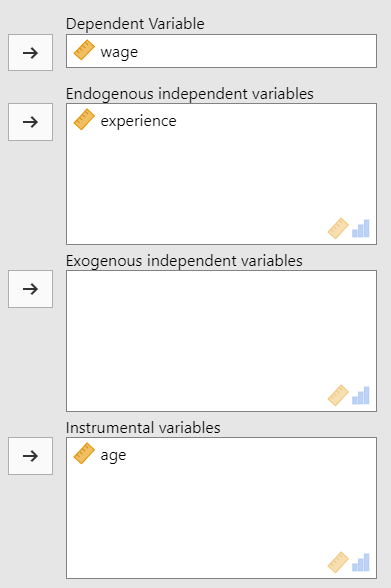
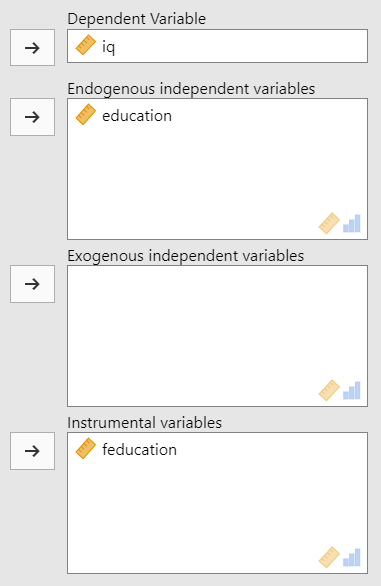
Help page

diff --git a/docs/example1.html b/docs/example1.html
@@ -411,30 +411,33 @@ href="https://cran.r-project.org/web/packages/ivreg/vignettes/ivreg.html"
 class="uri">https://cran.r-project.org/web/packages/ivreg/vignettes/ivreg.html</a>).
 The dataset is taken from the supplementary material for Verbeek (2004)
 and is based on the work of Card (1995).</p>
-<p>We aimed to investigate the impact of labor-market experience on
-earnings by implementing an IV regression via 2SLS estimation. The
-labor-market experience (<em>experience</em>) was defined as a predictor
-variable. The salary (<em>wage</em>) was defined as a criterion
-variable. Within a standard OLS regression, this estimate may be
-problematic, since it can be argued that <em>experience</em> may suffer
+<p>We aimed to investigate the impact of scholing (<em>education</em>)
+on intelligent quotient (<em>IQ</em>) by implementing an IV regression
+via 2SLS estimation. Schooling (<em>education</em>) was defined as a
+predictor variable. The intelligent quotient (<em>IQ</em>) was defined
+as a criterion variable. Within a standard OLS regression, this estimate
+may be problematic, since it can be argued that <em>IQ</em> may suffer
 from endogeneity issues (i.e., it may be correlated with the regression
-error term). By employing a 2SLS estimation, we defined <em>age</em> as
-the natural exogenous instrument for <em>experience</em>. To fit this
-model, we can simply follow the indications represented below:</p>
+error term). By employing a 2SLS estimation, we defined father’s
+education <em>feducation</em> as the natural exogenous instrument for
+<em>education</em>. To fit this model, we can simply follow the
+indications represented below:</p>
 <p><img src=" pics/example2/definition.png " class="img-responsive" alt=""></p>
 <p>The first table of interest is the “<em>Model diagnostics</em>” table
 which summarizes the diagnostic tests for endogeneity.</p>
 <p>The <em>Weak instruments test</em> examines the null hypothesis that
-the instrumental variable (i.e., <em>age</em>) is weakly correlated with
-the endogenous variable (i.e., <em>experience</em>). A significant
-p-value, as in this example, sustains the alternative hypothesis that
-the instrument is strong (see Stock &amp; Watson, 2015), also ensuring
-the satisfaction of the instrument relevance condition.</p>
+the instrumental variable (i.e., <em>feducation</em>) is weakly
+correlated with the endogenous variable (i.e., <em>education</em>). A
+significant p-value, as in this example, sustains the alternative
+hypothesis that the instrument is strong (see Stock &amp; Watson, 2015),
+also ensuring the satisfaction of the instrument relevance
+condition.</p>
 <p><em>Wu-Hausman’s specification test</em> examines the null hypothesis
-that <em>experience</em> satisfies the exogeneity assumption. A
-significant p-value, as in the example, provided evidence that
-<em>experience</em> suffers from endogeneity and, therefore, that the
-2SLS approach is recommended over the standard OLS regression.</p>
+that <em>education</em> satisfies the exogeneity assumption. A
+significant p-value, as in the example, sustains the alternative
+hypothesis that <em>education</em> suffers from endogeneity and,
+therefore, that the 2SLS approach is recommended over the standard OLS
+regression.</p>
 <p>With respect to <em>Sargan’s test</em>, note that since the model is
 just-identified the statistic cannot be computed. For a just-identified
 model, it is non-viable to formally test whether the instrumental
@@ -442,13 +445,14 @@ variables are exogenous (see Stock &amp; Watson, 2015).</p>
 <p><img src=" pics/example2/diagnostic2.png " class="img-responsive" alt=""></p>
 <p>Let’s take a look at the <em>“Parameter Estimates”</em> table. We
 show that the unstandardized regression coefficient linking
-<em>education</em> to <em>wage</em> was 24.734, p&lt;.001, whilst the
-standardized regression coefficient was 0.389, p&lt;.001. It basically
-means that for each additional year of <em>labor-market experience</em>,
-<em>wage</em> is expected to increase by 24.734. With respect to the
-standardized coefficient, a change of 1 standard deviation in
-<em>experience</em> is associated with a change of 0.389 standard
-deviations in <em>wage</em>.</p>
+<em>education</em> to <em>IQ</em> was 5.604, whilst the standardized
+regression coefficient was 0.972, p&lt;.001. It basically means that for
+each 1-unit increment of <em>education</em>, <em>IQ</em> is expected to
+increase by 5.604. With respect to the standardized coefficient, a
+change of 1 standard deviation in <em>education</em> is associated with
+a change of 0.972 standard deviations in <em>IQ</em>. Moreover, the
+regression model explained approximately 16% of the variance of
+<em>IQ</em>,</p>
 <p><img src=" pics/example2/estimates.png " class="img-responsive" alt=""></p>
 <p>Note that robust standard errors, as well as confidence intervals
 through the bootstrap approach can be requested by ticking these options

diff --git a/docssource/example1.html b/docssource/example1.html
@@ -411,30 +411,33 @@ href="https://cran.r-project.org/web/packages/ivreg/vignettes/ivreg.html"
 class="uri">https://cran.r-project.org/web/packages/ivreg/vignettes/ivreg.html</a>).
 The dataset is taken from the supplementary material for Verbeek (2004)
 and is based on the work of Card (1995).</p>
-<p>We aimed to investigate the impact of labor-market experience on
-earnings by implementing an IV regression via 2SLS estimation. The
-labor-market experience (<em>experience</em>) was defined as a predictor
-variable. The salary (<em>wage</em>) was defined as a criterion
-variable. Within a standard OLS regression, this estimate may be
-problematic, since it can be argued that <em>experience</em> may suffer
+<p>We aimed to investigate the impact of scholing (<em>education</em>)
+on intelligent quotient (<em>IQ</em>) by implementing an IV regression
+via 2SLS estimation. Schooling (<em>education</em>) was defined as a
+predictor variable. The intelligent quotient (<em>IQ</em>) was defined
+as a criterion variable. Within a standard OLS regression, this estimate
+may be problematic, since it can be argued that <em>IQ</em> may suffer
 from endogeneity issues (i.e., it may be correlated with the regression
-error term). By employing a 2SLS estimation, we defined <em>age</em> as
-the natural exogenous instrument for <em>experience</em>. To fit this
-model, we can simply follow the indications represented below:</p>
+error term). By employing a 2SLS estimation, we defined father’s
+education <em>feducation</em> as the natural exogenous instrument for
+<em>education</em>. To fit this model, we can simply follow the
+indications represented below:</p>
 <p><img src=" pics/example2/definition.png " class="img-responsive" alt=""></p>
 <p>The first table of interest is the “<em>Model diagnostics</em>” table
 which summarizes the diagnostic tests for endogeneity.</p>
 <p>The <em>Weak instruments test</em> examines the null hypothesis that
-the instrumental variable (i.e., <em>age</em>) is weakly correlated with
-the endogenous variable (i.e., <em>experience</em>). A significant
-p-value, as in this example, sustains the alternative hypothesis that
-the instrument is strong (see Stock &amp; Watson, 2015), also ensuring
-the satisfaction of the instrument relevance condition.</p>
+the instrumental variable (i.e., <em>feducation</em>) is weakly
+correlated with the endogenous variable (i.e., <em>education</em>). A
+significant p-value, as in this example, sustains the alternative
+hypothesis that the instrument is strong (see Stock &amp; Watson, 2015),
+also ensuring the satisfaction of the instrument relevance
+condition.</p>
 <p><em>Wu-Hausman’s specification test</em> examines the null hypothesis
-that <em>experience</em> satisfies the exogeneity assumption. A
-significant p-value, as in the example, provided evidence that
-<em>experience</em> suffers from endogeneity and, therefore, that the
-2SLS approach is recommended over the standard OLS regression.</p>
+that <em>education</em> satisfies the exogeneity assumption. A
+significant p-value, as in the example, sustains the alternative
+hypothesis that <em>education</em> suffers from endogeneity and,
+therefore, that the 2SLS approach is recommended over the standard OLS
+regression.</p>
 <p>With respect to <em>Sargan’s test</em>, note that since the model is
 just-identified the statistic cannot be computed. For a just-identified
 model, it is non-viable to formally test whether the instrumental
@@ -442,13 +445,14 @@ variables are exogenous (see Stock &amp; Watson, 2015).</p>
 <p><img src=" pics/example2/diagnostic2.png " class="img-responsive" alt=""></p>
 <p>Let’s take a look at the <em>“Parameter Estimates”</em> table. We
 show that the unstandardized regression coefficient linking
-<em>education</em> to <em>wage</em> was 24.734, p&lt;.001, whilst the
-standardized regression coefficient was 0.389, p&lt;.001. It basically
-means that for each additional year of <em>labor-market experience</em>,
-<em>wage</em> is expected to increase by 24.734. With respect to the
-standardized coefficient, a change of 1 standard deviation in
-<em>experience</em> is associated with a change of 0.389 standard
-deviations in <em>wage</em>.</p>
+<em>education</em> to <em>IQ</em> was 5.604, whilst the standardized
+regression coefficient was 0.972, p&lt;.001. It basically means that for
+each 1-unit increment of <em>education</em>, <em>IQ</em> is expected to
+increase by 5.604. With respect to the standardized coefficient, a
+change of 1 standard deviation in <em>education</em> is associated with
+a change of 0.972 standard deviations in <em>IQ</em>. Moreover, the
+regression model explained approximately 16% of the variance of
+<em>IQ</em>,</p>
 <p><img src=" pics/example2/estimates.png " class="img-responsive" alt=""></p>
 <p>Note that robust standard errors, as well as confidence intervals
 through the bootstrap approach can be requested by ticking these options

diff --git a/example1.html b/example1.html
@@ -411,30 +411,33 @@ href="https://cran.r-project.org/web/packages/ivreg/vignettes/ivreg.html"
 class="uri">https://cran.r-project.org/web/packages/ivreg/vignettes/ivreg.html</a>).
 The dataset is taken from the supplementary material for Verbeek (2004)
 and is based on the work of Card (1995).</p>
-<p>We aimed to investigate the impact of labor-market experience on
-earnings by implementing an IV regression via 2SLS estimation. The
-labor-market experience (<em>experience</em>) was defined as a predictor
-variable. The salary (<em>wage</em>) was defined as a criterion
-variable. Within a standard OLS regression, this estimate may be
-problematic, since it can be argued that <em>experience</em> may suffer
+<p>We aimed to investigate the impact of scholing (<em>education</em>)
+on intelligent quotient (<em>IQ</em>) by implementing an IV regression
+via 2SLS estimation. Schooling (<em>education</em>) was defined as a
+predictor variable. The intelligent quotient (<em>IQ</em>) was defined
+as a criterion variable. Within a standard OLS regression, this estimate
+may be problematic, since it can be argued that <em>IQ</em> may suffer
 from endogeneity issues (i.e., it may be correlated with the regression
-error term). By employing a 2SLS estimation, we defined <em>age</em> as
-the natural exogenous instrument for <em>experience</em>. To fit this
-model, we can simply follow the indications represented below:</p>
+error term). By employing a 2SLS estimation, we defined father’s
+education <em>feducation</em> as the natural exogenous instrument for
+<em>education</em>. To fit this model, we can simply follow the
+indications represented below:</p>
 <p><img src=" pics/example2/definition.png " class="img-responsive" alt=""></p>
 <p>The first table of interest is the “<em>Model diagnostics</em>” table
 which summarizes the diagnostic tests for endogeneity.</p>
 <p>The <em>Weak instruments test</em> examines the null hypothesis that
-the instrumental variable (i.e., <em>age</em>) is weakly correlated with
-the endogenous variable (i.e., <em>experience</em>). A significant
-p-value, as in this example, sustains the alternative hypothesis that
-the instrument is strong (see Stock &amp; Watson, 2015), also ensuring
-the satisfaction of the instrument relevance condition.</p>
+the instrumental variable (i.e., <em>feducation</em>) is weakly
+correlated with the endogenous variable (i.e., <em>education</em>). A
+significant p-value, as in this example, sustains the alternative
+hypothesis that the instrument is strong (see Stock &amp; Watson, 2015),
+also ensuring the satisfaction of the instrument relevance
+condition.</p>
 <p><em>Wu-Hausman’s specification test</em> examines the null hypothesis
-that <em>experience</em> satisfies the exogeneity assumption. A
-significant p-value, as in the example, provided evidence that
-<em>experience</em> suffers from endogeneity and, therefore, that the
-2SLS approach is recommended over the standard OLS regression.</p>
+that <em>education</em> satisfies the exogeneity assumption. A
+significant p-value, as in the example, sustains the alternative
+hypothesis that <em>education</em> suffers from endogeneity and,
+therefore, that the 2SLS approach is recommended over the standard OLS
+regression.</p>
 <p>With respect to <em>Sargan’s test</em>, note that since the model is
 just-identified the statistic cannot be computed. For a just-identified
 model, it is non-viable to formally test whether the instrumental
@@ -442,13 +445,14 @@ variables are exogenous (see Stock &amp; Watson, 2015).</p>
 <p><img src=" pics/example2/diagnostic2.png " class="img-responsive" alt=""></p>
 <p>Let’s take a look at the <em>“Parameter Estimates”</em> table. We
 show that the unstandardized regression coefficient linking
-<em>education</em> to <em>wage</em> was 24.734, p&lt;.001, whilst the
-standardized regression coefficient was 0.389, p&lt;.001. It basically
-means that for each additional year of <em>labor-market experience</em>,
-<em>wage</em> is expected to increase by 24.734. With respect to the
-standardized coefficient, a change of 1 standard deviation in
-<em>experience</em> is associated with a change of 0.389 standard
-deviations in <em>wage</em>.</p>
+<em>education</em> to <em>IQ</em> was 5.604, whilst the standardized
+regression coefficient was 0.972, p&lt;.001. It basically means that for
+each 1-unit increment of <em>education</em>, <em>IQ</em> is expected to
+increase by 5.604. With respect to the standardized coefficient, a
+change of 1 standard deviation in <em>education</em> is associated with
+a change of 0.972 standard deviations in <em>IQ</em>. Moreover, the
+regression model explained approximately 16% of the variance of
+<em>IQ</em>,</p>
 <p><img src=" pics/example2/estimates.png " class="img-responsive" alt=""></p>
 <p>Note that robust standard errors, as well as confidence intervals
 through the bootstrap approach can be requested by ticking these options
